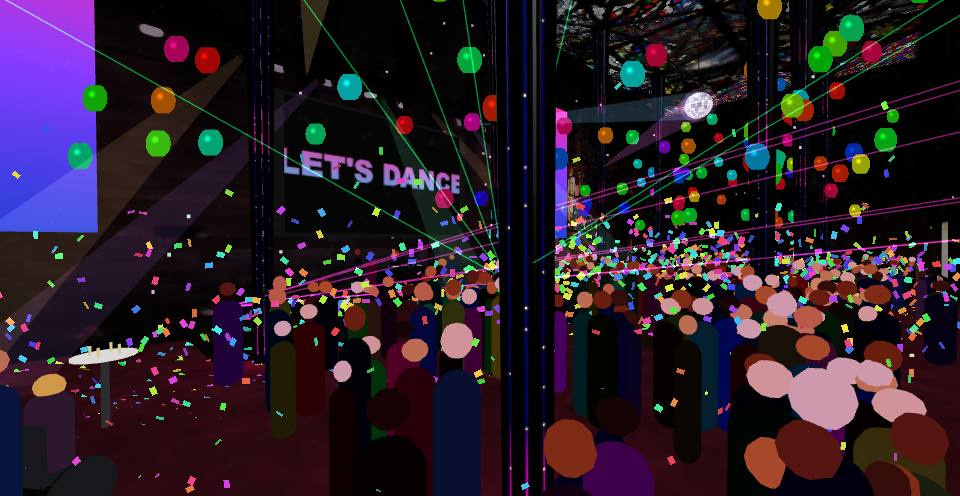
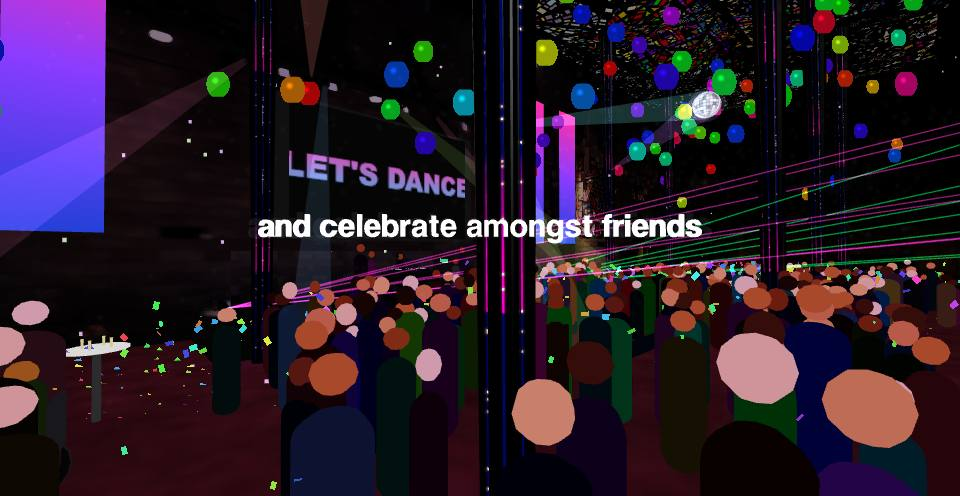
Shot 5 (Lloyd's note, V5): the line waits until 9.1 s, after the paper has fallen past (its times are in titles.json, 9.1 to 13.6), and the shot fades out over its last 1.5 s
Claude-Session: https://claude.ai/code/session_01Kj8eb3NFUpBFBphwSPELJR

diff --git a/index.html b/index.html
@@ -3418,7 +3418,7 @@ function finaleStep(s){ if(!finale)finaleStart(); if(!finale)return; const F=fin
 // line splits off the glint word, ' / ' stacks a second row under the first, and a row in *...*
 // is stained glass ('*Gandel Hall* / Is brought to |light'). finale is the year under the triangle,
 // sculpture the tag over the marks (both built once, so they take the file as it was at load).
-const TOUR_TEXT={"rainbow-columns":[["A special space",0,4.4],["Carefully crafted over decades",4.4,8.8],["*Gandel Hall* / Is brought to |light",8.8,13.2]],"dinner":[["A space for community.",5.5,11]],"banquet":[["~Where / ~Rich history and modern tradition / ~Meet",2.5,13.5]],"party":[["A place to have fun!",2,8]],"party-celebrate":[["and celebrate amongst friends",2.5,8.5]],"standing":[["A space for people to share their stories",2,8]],"wedding-aisle":[["and to celebrate love",2,8]],"finale":[["",0,0]],"finale-top":[["GANDEL HALL",0,0]],"sculpture":[["BROUGHT TO LIGHT BY",0,0]]};
+const TOUR_TEXT={"rainbow-columns":[["A special space",0,4.4],["Carefully crafted over decades",4.4,8.8],["*Gandel Hall* / Is brought to |light",8.8,13.2]],"dinner":[["A space for community.",5.5,11]],"banquet":[["~Where / ~Rich history and modern tradition / ~Meet",2.5,13.5]],"party":[["A place to have fun!",2,8]],"party-celebrate":[["and celebrate amongst friends",9.1,13.6]],"standing":[["A space for people to share their stories",2,8]],"wedding-aisle":[["and to celebrate love",2,8]],"finale":[["",0,0]],"finale-top":[["GANDEL HALL",0,0]],"sculpture":[["BROUGHT TO LIGHT BY",0,0]]};
 fetch('storyboard/titles.json?v='+Date.now()).then(r=>r.ok?r.json():null).then(j=>{ if(j)Object.assign(TOUR_TEXT,j); }).catch(()=>{});
 const TX=k=>(TOUR_TEXT[k]||[]).map(([t,a,b])=>[t,a,b]);
 const TX1=(k,d)=>((TOUR_TEXT[k]||[])[0]||[d])[0]||d;
@@ -3475,7 +3475,8 @@ function tourSegments(){ const uM=EVENT.wallLen/2, c=EVENT.cols;
   // crowd below to the stage as it lands, and the last 5 s are the hold as before
   {celebrate:true,dur:14, cam:k=>{ const s=k*14, q=smooth(Math.min(1,s/9)), w=0.06*Math.sin(k*Math.PI*2)*q;
     // (Lloyd, V4) lower start, 6 m, so the paper is above the text as it comes in
-    poseAt(EP(uM+8+w*8,2.4+3.6*(1-q),13-2.5*(1-q)),EP(uM,2.5-1.3*(1-q),5+3.5*(1-q))); titlesNow(s,TX('party-celebrate')); veil(1-smooth(Math.min(1,s/1.5))); }},
+    // (Lloyd, V5) the text waits until 9.1 s (its times in titles.json) and the shot fades out at the end
+    poseAt(EP(uM+8+w*8,2.4+3.6*(1-q),13-2.5*(1-q)),EP(uM,2.5-1.3*(1-q),5+3.5*(1-q))); titlesNow(s,TX('party-celebrate')); veil(Math.max(1-smooth(Math.min(1,s/1.5)),smooth(Math.max(0,(s-12.5)/1.5)))); }},
   // (Lloyd's notes) standing: a half circle round the speaker on the stage, 9 m out, facing them
   // the whole way
   {mode:'standing',dur:16,cam:k=>{ const q=smooth(k), a=Math.PI*(0.18+0.64*q), S=EP(uM,1.9,1.6);

diff --git a/tour-storyboard.md b/tour-storyboard.md
@@ -293,7 +293,10 @@ the rice should be landing on the floor and not disappearing right away.  Also, 
 V2 (sent 01/09/2026 22:23:22):
 the rice is phasing through the floor. It should land on the floor and stay during the scene
 
-V3 (draft):
+V3 (sent 01/09/2026 22:45:06):
+No logos outside for this scene
+
+V4 (draft):
 
 
 ---
@@ -331,7 +334,10 @@ Dark enttec letters should be white so they contrast on the black background.
 
 Try to get the enttec and shadow av logos roughly the same size. Maybe make the shadow av owl smaller
 
-V4 (draft):
+V4 (sent 01/09/2026 22:44:30):
+The entrance through the glass isn't cut out through the glass walls like this in real life. Each glass window has a door at the bottom of it. Just open one of those doors and walk through it. Don't cut through the wall like this
+
+V5 (draft):
 
 
 ---
